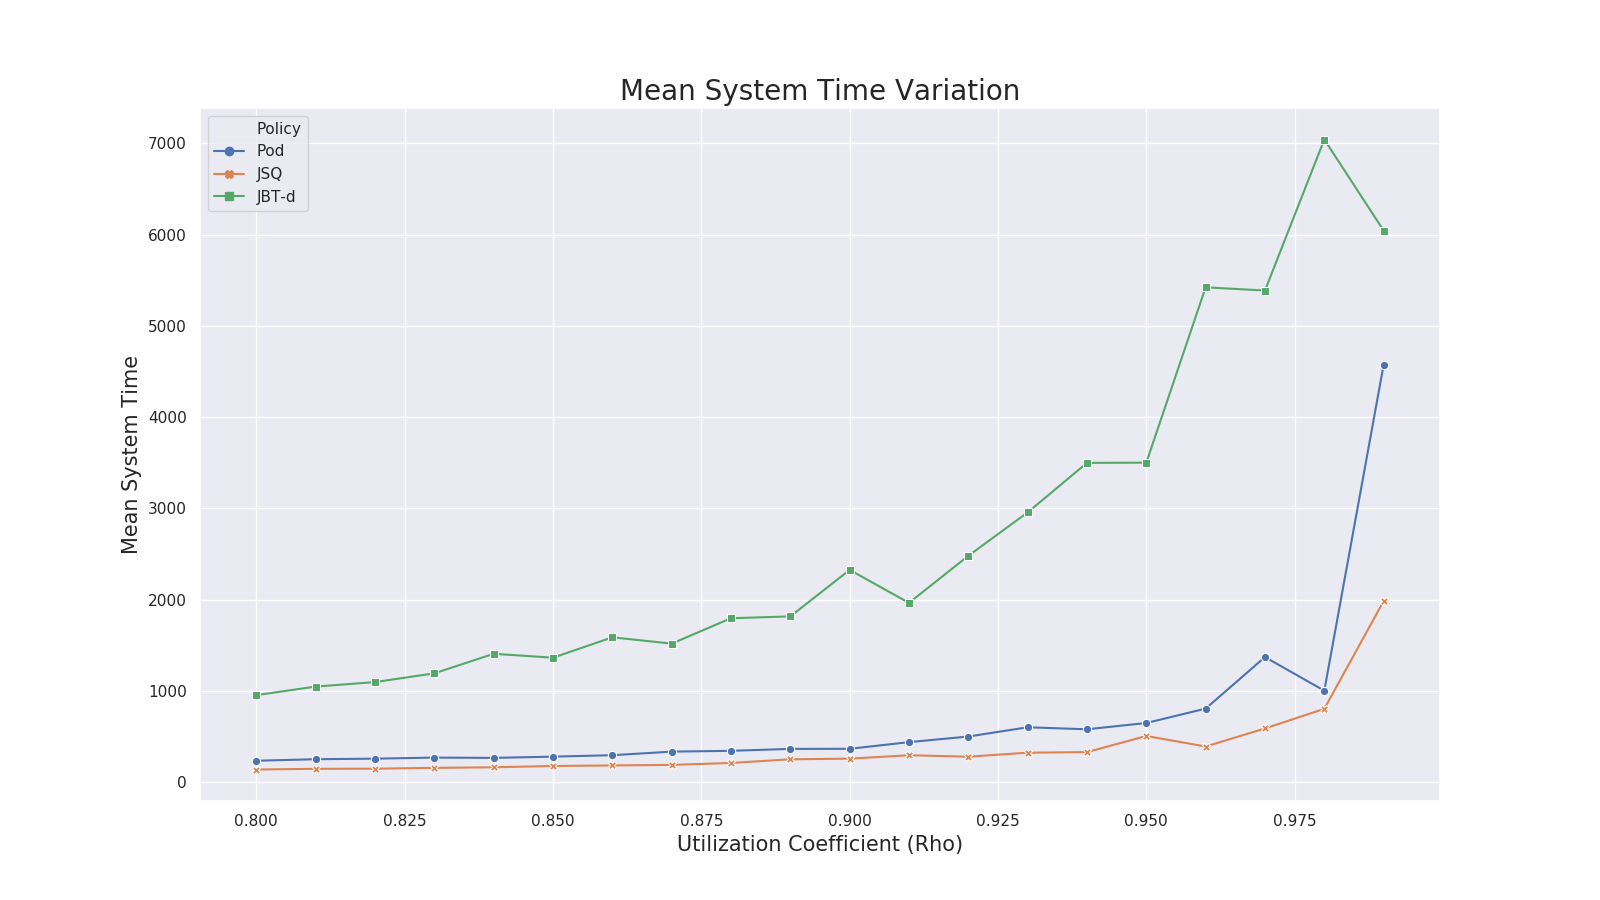
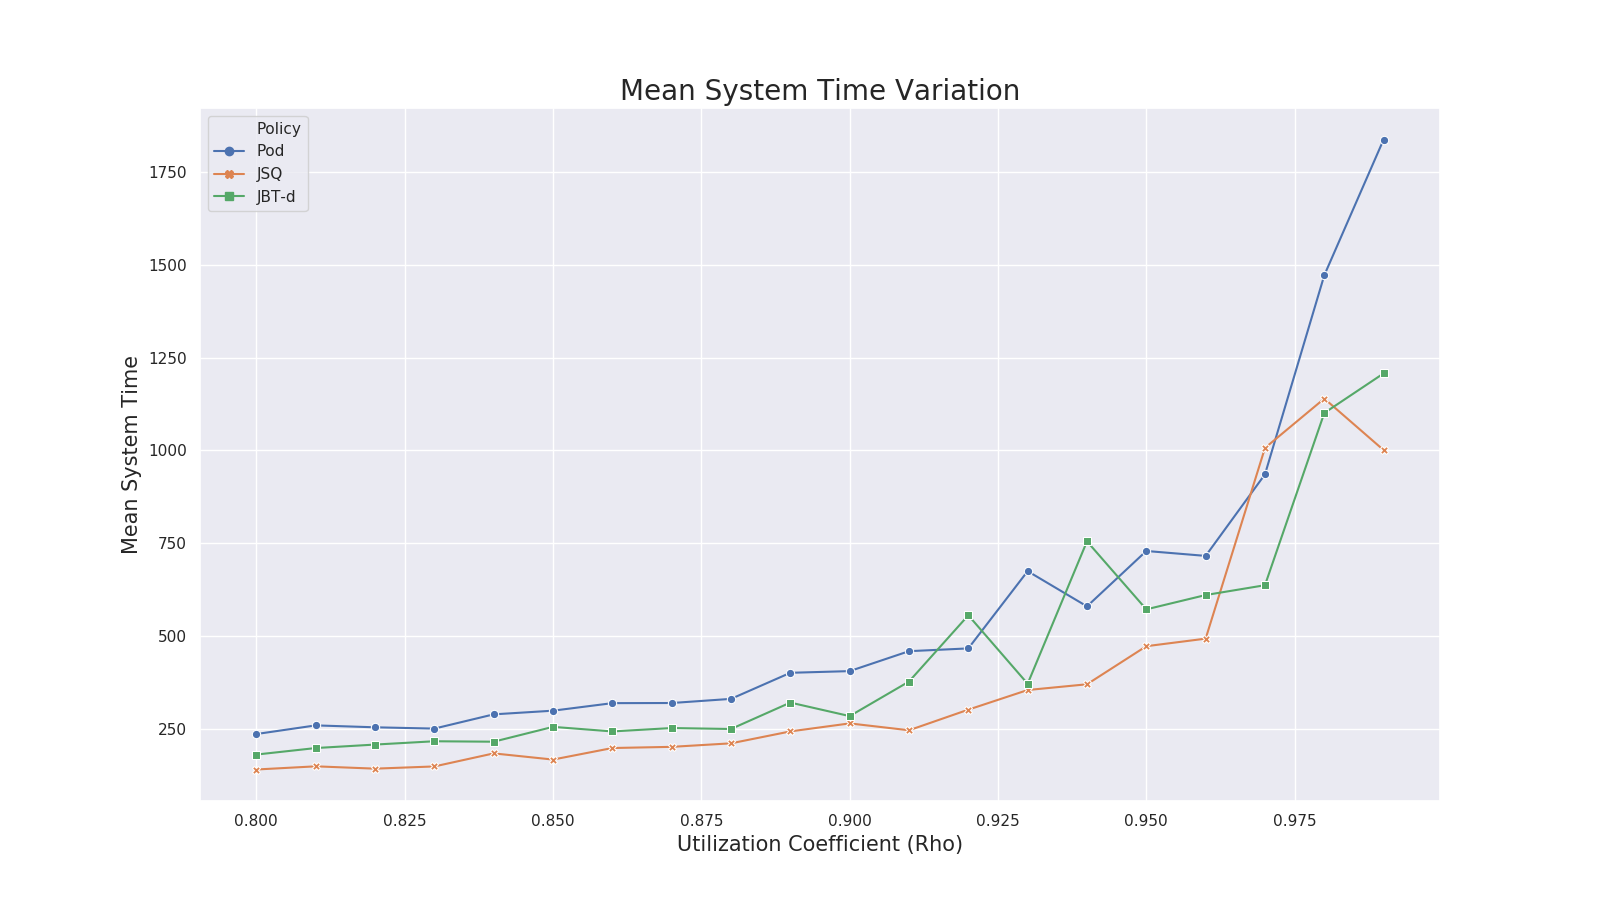
Fix JBT overhead

diff --git a/Dispatcher.py b/Dispatcher.py
@@ -126,24 +126,25 @@ class Dispatcher:
         servers_below_threshold = []
 
         for time in self.tasks_timeline:
-            overhead_temp = 0
             # if t units of time passed, update the threshold,
             # update the list of servers below threshold
             # and use the server with lower threshold to assign the task
             if time > t_units:
                 server_id = self.pick_best_server(
                     self.servers.keys(), self.d, time)
+                self.overhead += 2*self.d
                 threshold = max(
                     1, self.get_queue_len(server_id, time))
-                overhead_temp += self.number_of_servers
-                servers_below_threshold = []
+                self.overhead += self.number_of_servers
+                sbt_temp = []
                 # search for all the servers below threshold
                 for id in self.servers:
                     queue_len = self.get_queue_len(id, time)
                     if queue_len < threshold:
-                        servers_below_threshold.append(id)
-                n_servers = min(self.d, len(servers_below_threshold))
-                overhead_temp += self.number_of_servers
+                        sbt_temp.append(id)
+                diff = len(set(sbt_temp).difference(
+                    set(servers_below_threshold)))
+                self.overhead += diff
                 t_units += self.t
                 self.rs.append(threshold)
 
@@ -152,23 +153,18 @@ class Dispatcher:
             else:
                 if len(servers_below_threshold) > 0:
                     server_id = random.sample(servers_below_threshold, 1)[0]
-                    n_servers = min(self.d, len(servers_below_threshold))
-                    overhead_temp += 2*n_servers
+                    servers_below_threshold.remove(server_id)
                 else:
                     server_id = random.sample(list(self.servers.keys()), 1)[0]
 
             self.assign_task(time, server_id)
-            # self.overhead += overhead_temp + 1
-            try:
-                servers_below_threshold.remove(server_id)
-            except:
-                continue
 
             for id in self.servers:
                 if id not in servers_below_threshold:
                     n_tasks = self.get_queue_len(id, time)
                     if n_tasks < threshold:
                         servers_below_threshold.append(id)
+                        self.overhead += 1
 
         self.overhead /= self.number_of_tasks
 

diff --git a/main.py b/main.py
@@ -6,7 +6,7 @@ from time import time
 from simulation_utils import Simulator, plot
 
 
-number_of_tasks = (10**5)
+number_of_tasks = (10**6)
 number_of_servers = 20
 d = 3
 rho_values = np.arange(0.8, 1., 0.01)
@@ -120,7 +120,7 @@ if __name__ == "__main__":
             mean_system_times_jbt, overheads_jbt = simulator.multiprocessing_simulation(
                 rho_values, n_proc, jbt=True)
 
-            filename = 'single_simulation_test_1_'
+            filename = 'single_simulation_'
 
     end = time()
     print("Simulation completed in", int(end-start), "seconds!\n\n")
